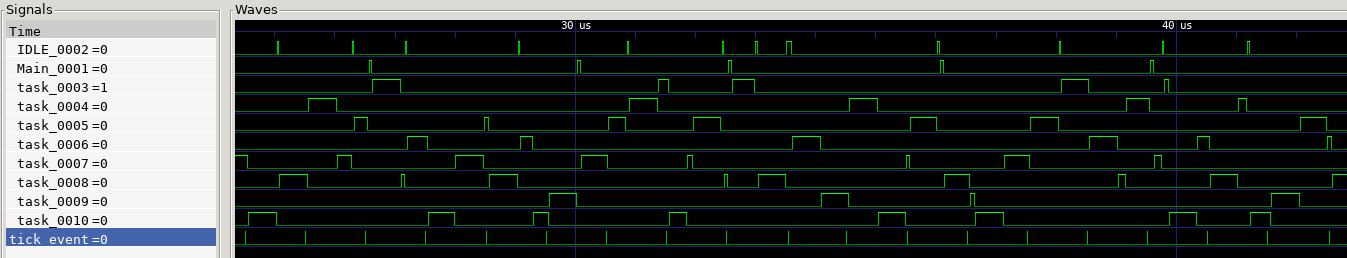
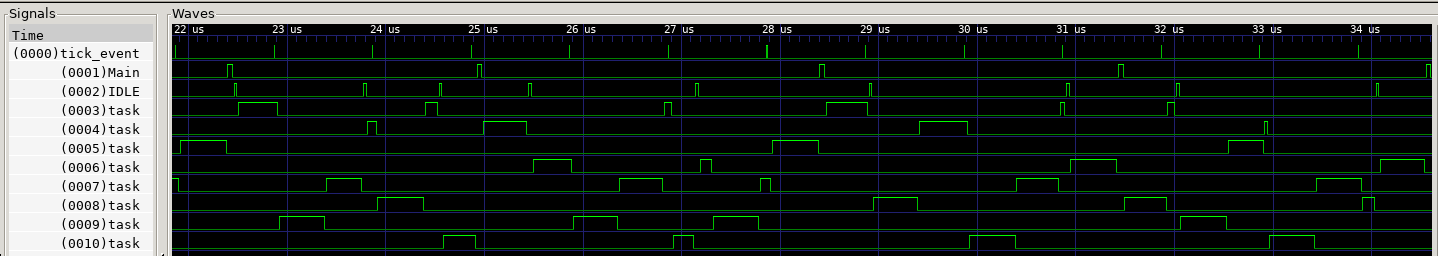
update doc and minor chages to improve code

diff --git a/FreeRTOS-Trace/btf_trace.c b/FreeRTOS-Trace/btf_trace.c
@@ -41,7 +41,7 @@ void btf_traceSTART(void) {
     trace_data.h.version = TRACE_VERSION;
     trace_data.h.core_clock = configCPU_CLOCK_HZ;
     trace_data.h.max_tasks = configMAX_TASKS;
-    trace_data.h.max_task_name_len = ALIGN4(configMAX_TASK_NAME_LEN+6);
+    trace_data.h.max_taskname_len = ALIGN4(configMAX_TASK_NAME_LEN+1);
     trace_data.h.max_events = configMAX_EVENTS;
     trace_data.h.task_count = 0;
     trace_data.h.event_count = 0;
@@ -66,8 +66,6 @@ void btf_trace_add_task (
     uint32_t task_id,
     event_t  event)
 {
-    char id[6];
-
     if (!trace_en) return;
     assert (trace_data.h.event_count <= configMAX_EVENTS);
 
@@ -77,12 +75,9 @@ void btf_trace_add_task (
         return;
     }
 
-    sprintf(id, "_%04d", (unsigned)task_id);
-
     // task_id is a unique ID, which will increase by 1 each time a TCB is created.
     strncpy((char*)trace_data.d.task_lists[task_id], (char*)task_name, configMAX_TASK_NAME_LEN);
-    strncat((char*)trace_data.d.task_lists[task_id], id, configMAX_TASK_NAME_LEN+5);
-    trace_data.d.task_lists[task_id][configMAX_TASK_NAME_LEN+6] = 0;
+    trace_data.d.task_lists[task_id][configMAX_TASK_NAME_LEN] = 0;
     trace_data.h.task_count++;
 
     trace_data.d.event_lists[trace_data.h.current_index].time = xGetTime();
@@ -156,91 +151,75 @@ void btf_dump(
 
         switch(event->types) {
             case TRACE_EVENT_TASK_SWITCHED_IN:
-                printf( "%ld,%s,0,T,%s,0,%s,%s\n",
+                printf( "%ld,(%04d)%s,0,T,(%04d)%s,0,%s,%s\n",
                         event->time,
-                        get_taskname(trace_data, current_task),
-                        get_taskname(trace_data, event->value),
+                        current_task, get_taskname(trace_data, current_task),
+                        event->value, get_taskname(trace_data, event->value),
                         "resume",
                         "switched_in");
-                current_task = event->value;
                 break;
             case TRACE_EVENT_TASK_SWITCHED_OUT:
-                printf( "%ld,%s,0,T,%s,0,%s,%s\n",
+                printf( "%ld,(%04d)%s,0,T,(%04d)%s,0,%s,%s\n",
                         event->time,
-                        "Core_1",
-                        get_taskname(trace_data, event->value),
+                        current_task, get_taskname(trace_data, current_task),
+                        event->value, get_taskname(trace_data, event->value),
                         "preempt",
                         "switched_out");
-                current_task = event->value;
                 break;
             case TRACE_EVENT_TASK_CREATE:
-                printf( "%ld,%s,0,T,%s,0,%s,%s\n",
+                printf( "%ld,%s,0,T,(%04d)%s,0,%s,%s\n",
                         event->time,
                         "Core_1",
-                        get_taskname(trace_data, event->value),
-                        "start",
-                        "task_create");
-                printf( "%ld,%s,0,T,%s,0,%s,%s\n",
-                        event->time,
-                        "Core_1",
-                        get_taskname(trace_data, event->value),
+                        event->value, get_taskname(trace_data, event->value),
                         "preempt",
                         "task_create");
-                current_task = event->value;
                 break;
             case TRACE_EVENT_TASK_DELETE:
-                // TODO
-                /*
-                printf( "%ld,%s,0,T,%s,0,%s,%s\n",
+                // FIXME
+                printf( "%ld,%s,0,R,(%04d)%s,0,%s,%s\n",
                         event->time,
                         "Core_1",
-                        get_taskname(trace_data, event->value),
-                        "terminate",
+                        event->value, get_taskname(trace_data, event->value),
+                        "preempt",
                         "task_delete");
-                current_task = event->value;
-                */
                 break;
             case TRACE_EVENT_TASK_SUSPEND:
-                printf( "%ld,%s,0,T,%s,0,%s,%s\n",
+                printf( "%ld,(%04d)%s,0,T,(%04d)%s,0,%s,%s\n",
                         event->time,
-                        get_taskname(trace_data, current_task),
-                        get_taskname(trace_data, event->value),
+                        current_task, get_taskname(trace_data, current_task),
+                        event->value, get_taskname(trace_data, event->value),
                         "wait",
                         "task_suspend");
-                current_task = event->value;
                 break;
             case TRACE_EVENT_TASK_RESUME:
-                printf( "%ld,%s,0,T,%s,0,%s,%s\n",
+                printf( "%ld,(%04d)%s,0,T,(%04d)%s,0,%s,%s\n",
                         event->time,
-                        get_taskname(trace_data, current_task),
-                        get_taskname(trace_data, event->value),
+                        current_task, get_taskname(trace_data, current_task),
+                        event->value, get_taskname(trace_data, event->value),
                         "release",
                         "task_resume");
-                current_task = event->value;
                 break;
             case TRACE_EVENT_TASK_RESUME_FROM_ISR:
-                printf( "%ld,%s,0,T,%s,0,%s,%s\n",
+                printf( "%ld,%s,0,T,(%04d)%s,0,%s,%s\n",
                         event->time,
                         "Core_1",
-                        get_taskname(trace_data, event->value),
+                        event->value, get_taskname(trace_data, event->value),
                         "release",
                         "resume_from_isr");
-                current_task = event->value;
                 break;
             case TRACE_EVENT_TASK_INCREMENT_TICK:
-                // TODO
-                /*
+                // FIXME
                 printf( "%ld,%s,0,STI,%s,0,%s,tick_%ld\n",
                         event->time,
                         "Core_1",
                         "tick_event",
                         "trigger",
                         event->value);
-                */
                 break;
             default:
                 break;
         }
+        current_task = event->value;
         current_index = ((current_index + 1) % trace_data.h.max_events);
     }
 }

diff --git a/tools/gentrace.c b/tools/gentrace.c
@@ -63,7 +63,8 @@ static char *get_taskname(
     int index
 ) {
     char *ptr = (char*)&trace_data->d.task_lists;
-    int n = trace_data->h.max_task_name_len * index;
+    int n = trace_data->h.max_taskname_len * index;
+
     return (char*)&ptr[n];
 }
 
@@ -72,8 +73,9 @@ static EVENT *get_event(
     int index
 ) {
     char *ptr = (char*)&trace_data->d.task_lists;
-    int n = trace_data->h.max_tasks * trace_data->h.max_task_name_len +
+    int n = trace_data->h.max_tasks * trace_data->h.max_taskname_len +
             sizeof(EVENT) * index;
+
     return (EVENT*)&ptr[n];
 }
 
@@ -156,91 +158,75 @@ int genbtf(
 
         switch(event->types) {
             case TRACE_EVENT_TASK_SWITCHED_IN:
-                fprintf(fout, "%d,%s,0,T,%s,0,%s,%s\n",
+                fprintf(fout, "%d,(%04d)%s,0,T,(%04d)%s,0,%s,%s\n",
                         event->time,
-                        get_taskname(trace_data, current_task),
-                        get_taskname(trace_data, event->value),
+                        current_task, get_taskname(trace_data, current_task),
+                        event->value, get_taskname(trace_data, event->value),
                         "resume",
                         "switched_in");
-                current_task = event->value;
                 break;
             case TRACE_EVENT_TASK_SWITCHED_OUT:
-                fprintf(fout, "%d,%s,0,T,%s,0,%s,%s\n",
+                fprintf(fout, "%d,(%04d)%s,0,T,(%04d)%s,0,%s,%s\n",
                         event->time,
-                        "Core_1",
-                        get_taskname(trace_data, event->value),
+                        current_task, get_taskname(trace_data, current_task),
+                        event->value, get_taskname(trace_data, event->value),
                         "preempt",
                         "switched_out");
-                current_task = event->value;
                 break;
             case TRACE_EVENT_TASK_CREATE:
-                fprintf(fout, "%d,%s,0,T,%s,0,%s,%s\n",
+                fprintf(fout, "%d,%s,0,T,(%04d)%s,0,%s,%s\n",
                         event->time,
                         "Core_1",
-                        get_taskname(trace_data, event->value),
-                        "start",
-                        "task_create");
-                fprintf(fout, "%d,%s,0,T,%s,0,%s,%s\n",
-                        event->time,
-                        "Core_1",
-                        get_taskname(trace_data, event->value),
+                        event->value, get_taskname(trace_data, event->value),
                         "preempt",
                         "task_create");
-                current_task = event->value;
                 break;
             case TRACE_EVENT_TASK_DELETE:
-                // TODO
-                /*
-                fprintf(fout, "%d,%s,0,R,%s,0,%s,%s\n",
+                // FIXME
+                fprintf(fout, "%d,%s,0,R,(%04d)%s,0,%s,%s\n",
                         event->time,
                         "Core_1",
-                        get_taskname(trace_data, event->value),
-                        "terminate",
+                        event->value, get_taskname(trace_data, event->value),
+                        "preempt",
                         "task_delete");
-                current_task = event->value;
-                */
                 break;
             case TRACE_EVENT_TASK_SUSPEND:
-                fprintf(fout, "%d,%s,0,T,%s,0,%s,%s\n",
+                fprintf(fout, "%d,(%04d)%s,0,T,(%04d)%s,0,%s,%s\n",
                         event->time,
-                        get_taskname(trace_data, current_task),
-                        get_taskname(trace_data, event->value),
+                        current_task, get_taskname(trace_data, current_task),
+                        event->value, get_taskname(trace_data, event->value),
                         "wait",
                         "task_suspend");
-                current_task = event->value;
                 break;
             case TRACE_EVENT_TASK_RESUME:
-                fprintf(fout, "%d,%s,0,T,%s,0,%s,%s\n",
+                fprintf(fout, "%d,(%04d)%s,0,T,(%04d)%s,0,%s,%s\n",
                         event->time,
-                        get_taskname(trace_data, current_task),
-                        get_taskname(trace_data, event->value),
+                        current_task, get_taskname(trace_data, current_task),
+                        event->value, get_taskname(trace_data, event->value),
                         "release",
                         "task_resume");
-                current_task = event->value;
                 break;
             case TRACE_EVENT_TASK_RESUME_FROM_ISR:
-                fprintf(fout, "%d,%s,0,T,%s,0,%s,%s\n",
+                fprintf(fout, "%d,%s,0,T,(%04d)%s,0,%s,%s\n",
                         event->time,
                         "Core_1",
-                        get_taskname(trace_data, event->value),
+                        event->value, get_taskname(trace_data, event->value),
                         "release",
                         "resume_from_isr");
-                current_task = event->value;
                 break;
             case TRACE_EVENT_TASK_INCREMENT_TICK:
-                // TODO
-                /*
+                // FIXME
                 fprintf(fout, "%d,%s,0,STI,%s,0,%s,tick_%d\n",
                         event->time,
                         "Core_1",
                         "tick_event",
                         "trigger",
                         event->value);
-                */
                 break;
             default:
                 break;
         }
+        current_task = event->value;
         current_index = ((current_index + 1) % trace_data->h.max_events);
     }
 
@@ -320,12 +306,12 @@ int genvcd(
     // tick event
     tick_id = 0;
     fprintf(fout,"$var wire 1 %s %s $end\n", get_vcdsig(tick_id),
-            "tick_event");
+            "(0000)tick_event");
 
-    // task lists
+    // task lists, task number starts from 1
     for (i = 1; i <= trace_data->h.task_count; i++ ) {
-        fprintf(fout,"$var wire 1 %s %s $end\n", get_vcdsig(i),
-                trace_data->d.task_lists[i]);
+        fprintf(fout,"$var wire 1 %s (%04d)%s $end\n", get_vcdsig(i), i,
+                get_taskname(trace_data, i));
     }
 
     fprintf(fout, "$upscope $end\n");

diff --git a/FreeRTOS-Trace/btf_trace.h b/FreeRTOS-Trace/btf_trace.h
@@ -60,7 +60,7 @@ typedef struct {
     uint32_t    version;
     uint32_t    core_clock;
     uint32_t    max_tasks;
-    uint32_t    max_task_name_len;
+    uint32_t    max_taskname_len;
     uint32_t    max_events;
     uint32_t    task_count;
     uint32_t    event_count;
@@ -68,7 +68,7 @@ typedef struct {
 } TRACE_HEADER;
 
 typedef struct {
-    uint8_t     task_lists[configMAX_TASKS][ALIGN4(configMAX_TASK_NAME_LEN+6)];
+    uint8_t     task_lists[configMAX_TASKS][ALIGN4(configMAX_TASK_NAME_LEN+1)];
     EVENT       event_lists[configMAX_EVENTS];
 } TRACE_DATA;
 

diff --git a/README.md b/README.md
@@ -2,37 +2,35 @@
 
 [![Codacy Badge](https://app.codacy.com/project/badge/Grade/f952ae549fe94c2b88401a2cf935359b)](https://www.codacy.com/gh/kuopinghsu/FreeRTOS-BTF-Trace/dashboard?utm_source=github.com&amp;utm_medium=referral&amp;utm_content=kuopinghsu/FreeRTOS-BTF-Trace&amp;utm_campaign=Badge_Grade)
 
-Generate BTF trace file for FreeRTOS.
+Generate BTF trace file or VCD waveform for FreeRTOS.
 
-BTF (Best Trace Format) is a CSV-based format used to record and trace at the system
-level to analyze the timing, performance, and reliability of embedded real-time systems.
-The spec can be found [here](https://assets.vector.com/cms/content/products/TA_Tool_Suite/Docs/BTF_Specification.pdf).
+BTF (Best Trace Format) is a CSV-based format used to record and trace at the system level to analyze the timing, performance, and reliability of embedded real-time systems. The spec can be found [here](https://assets.vector.com/cms/content/products/TA_Tool_Suite/Docs/BTF_Specification.pdf).
 
-Tracelyzer from [Percepio](https://percepio.com/tracealyzer/) is the best analysis tools to visualize the real-time execution of tasks and ISRs. Sometimes we only need a simple solution to see the execution of the task and find the performance bottleneck. The project provides a simple and extensible framework for this, and most importantly, it is open source and free. There's another solution is using [BareCTF](https://barectf.org/) and [Trace Compass](https://www.eclipse.org/tracecompass/) to trace FreeRTOS system in [freerots-barectf](https://github.com/gpollo/freertos-barectf).
+VCD (Value Change Dump) is an ASCII-based format for dumpfiles generated by EDA logic simulation tools, which can be opened by [GTKWave](http://gtkwave.sourceforge.net) tool.
+
+Tracelyzer from [Percepio](https://percepio.com/tracealyzer/) is the best analysis tools to visualize the real-time execution of tasks and ISRs. However, sometimes we just need a simple solution to find the performance bottleneck. This project provides a simple and extensible framework for this, and most importantly, it is open source and free.
+
+There's another related solution is using [BareCTF](https://barectf.org/) and [Trace Compass](https://www.eclipse.org/tracecompass/) to trace FreeRTOS system in [freerots-barectf](https://github.com/gpollo/freertos-barectf).
 
 ## Build
 
-This is an example to test <A Href="https://github.com/kuopinghsu/srv32">srv32</A> on FreeRTOS. The code can be run on the ISS (Instruction Set Simulator) of srv32 to generate trace data in BTF format. This can be easily ported to another platform.
+This is an example to test [srv32](https://github.com/kuopinghsu/srv32) on FreeRTOS. The code can be run on the ISS (Instruction Set Simulator) of srv32 to generate trace data in BTF and VCD format. I use [srv32](https://github.com/kuopinghsu/srv32) to run the test, and this can be easily ported to another platform.
 
-Requirement: Install the toolchains. See details in srv32 <A Href="https://github.com/kuopinghsu/srv32#building-toolchains">Building toolchains</A> section.
+Requirement: Install the toolchains. See details in srv32 [Building toolchains](https://github.com/kuopinghsu/srv32#building-toolchains) section.
 
-Calling traceSTART() to enable trace, and calling traceEND() to stop trace and dump data to memory.
+The file "trace.btf" and "trace.vcd" will be generated under Demo/examples folder. Open it by the Trace Compass (for trace.btf) or VCD viewer (for trace.vcd).
 
     $ make run
 
-The file "trace.btf" will be generated under Demo/examples folder. Open it by the Trace Compass.
+## Results
 
-## Trace Compass
-
-This is a screen shot of <a href="https://www.eclipse.org/tracecompass/"> Trace Compass </a>
-by reading the BTF trace file. Use the gentrace tool to convert the trace data into BTF format.
+This is a screen shot of [Trace Compass](https://www.eclipse.org/tracecompass/) by reading the BTF trace file. Use the gentrace tool to convert the trace data into BTF format.
 
     $ gentrace dump.bin trace.btf
 
 <img src="images/trace-compass.png" alt="trace-compass" width=640>
 
-This is the VCD waveform showing task switching. Use gentrace tool to generate trace data into
-VCD format.
+This is the VCD waveform showing task switching. Use gentrace tool to generate trace data into VCD format.
 
     $ gentrace -v dump.bin trace.vcd
 
@@ -73,4 +71,3 @@ $ ../../tools/gentrace dump.bin trace.btf
 ## License
 
 MIT license
-

diff --git a/tools/README.md b/tools/README.md
@@ -1,1 +1,11 @@
-This is a utility to conver the trace data file to BTF (Best Trace Format) file.
+# gentrace
+
+This is a utility to conver the trace data file to BTF (Best Trace Format) or VCD (Value Change Dump) file.
+
+Use below command to convert the file to BTF format.
+
+    $ gentrace dump.bin trace.btf
+
+Use below command to convert the file to VCD format.
+
+    $ gentrace -v dump.bin trace.vcd
